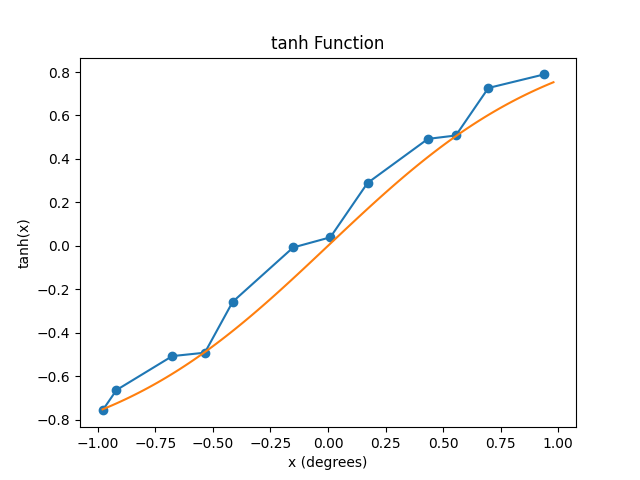
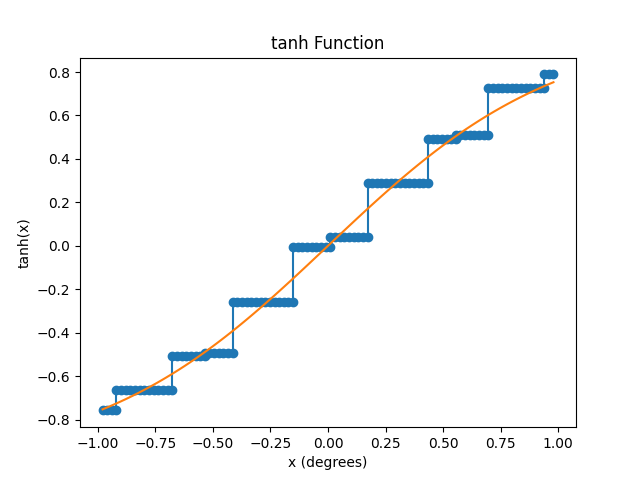
update

diff --git a/Mini_Project/Source_Code/python_conversion_code/tanh_conversion.py b/Mini_Project/Source_Code/python_conversion_code/tanh_conversion.py
@@ -24,7 +24,8 @@ ind_to_plot = [0,4,17,25,32,46,55,64,78,85,93,106]
 
 plt.figure()
 plt.clf()
-plt.plot(y_input[ind_to_plot],tanh_values_decimal[ind_to_plot],'o-')
+plt.plot(y_input,tanh_values_decimal,'o-')
+# plt.plot(y_input[ind_to_plot],tanh_values_decimal[ind_to_plot],'o-')
 plt.plot(np.linspace(y_input[0],y_input[-1],100),np.tanh(np.linspace(y_input[0],y_input[-1],100)))
 plt.xlabel("x (degrees)")
 plt.ylabel("tanh(x)")
